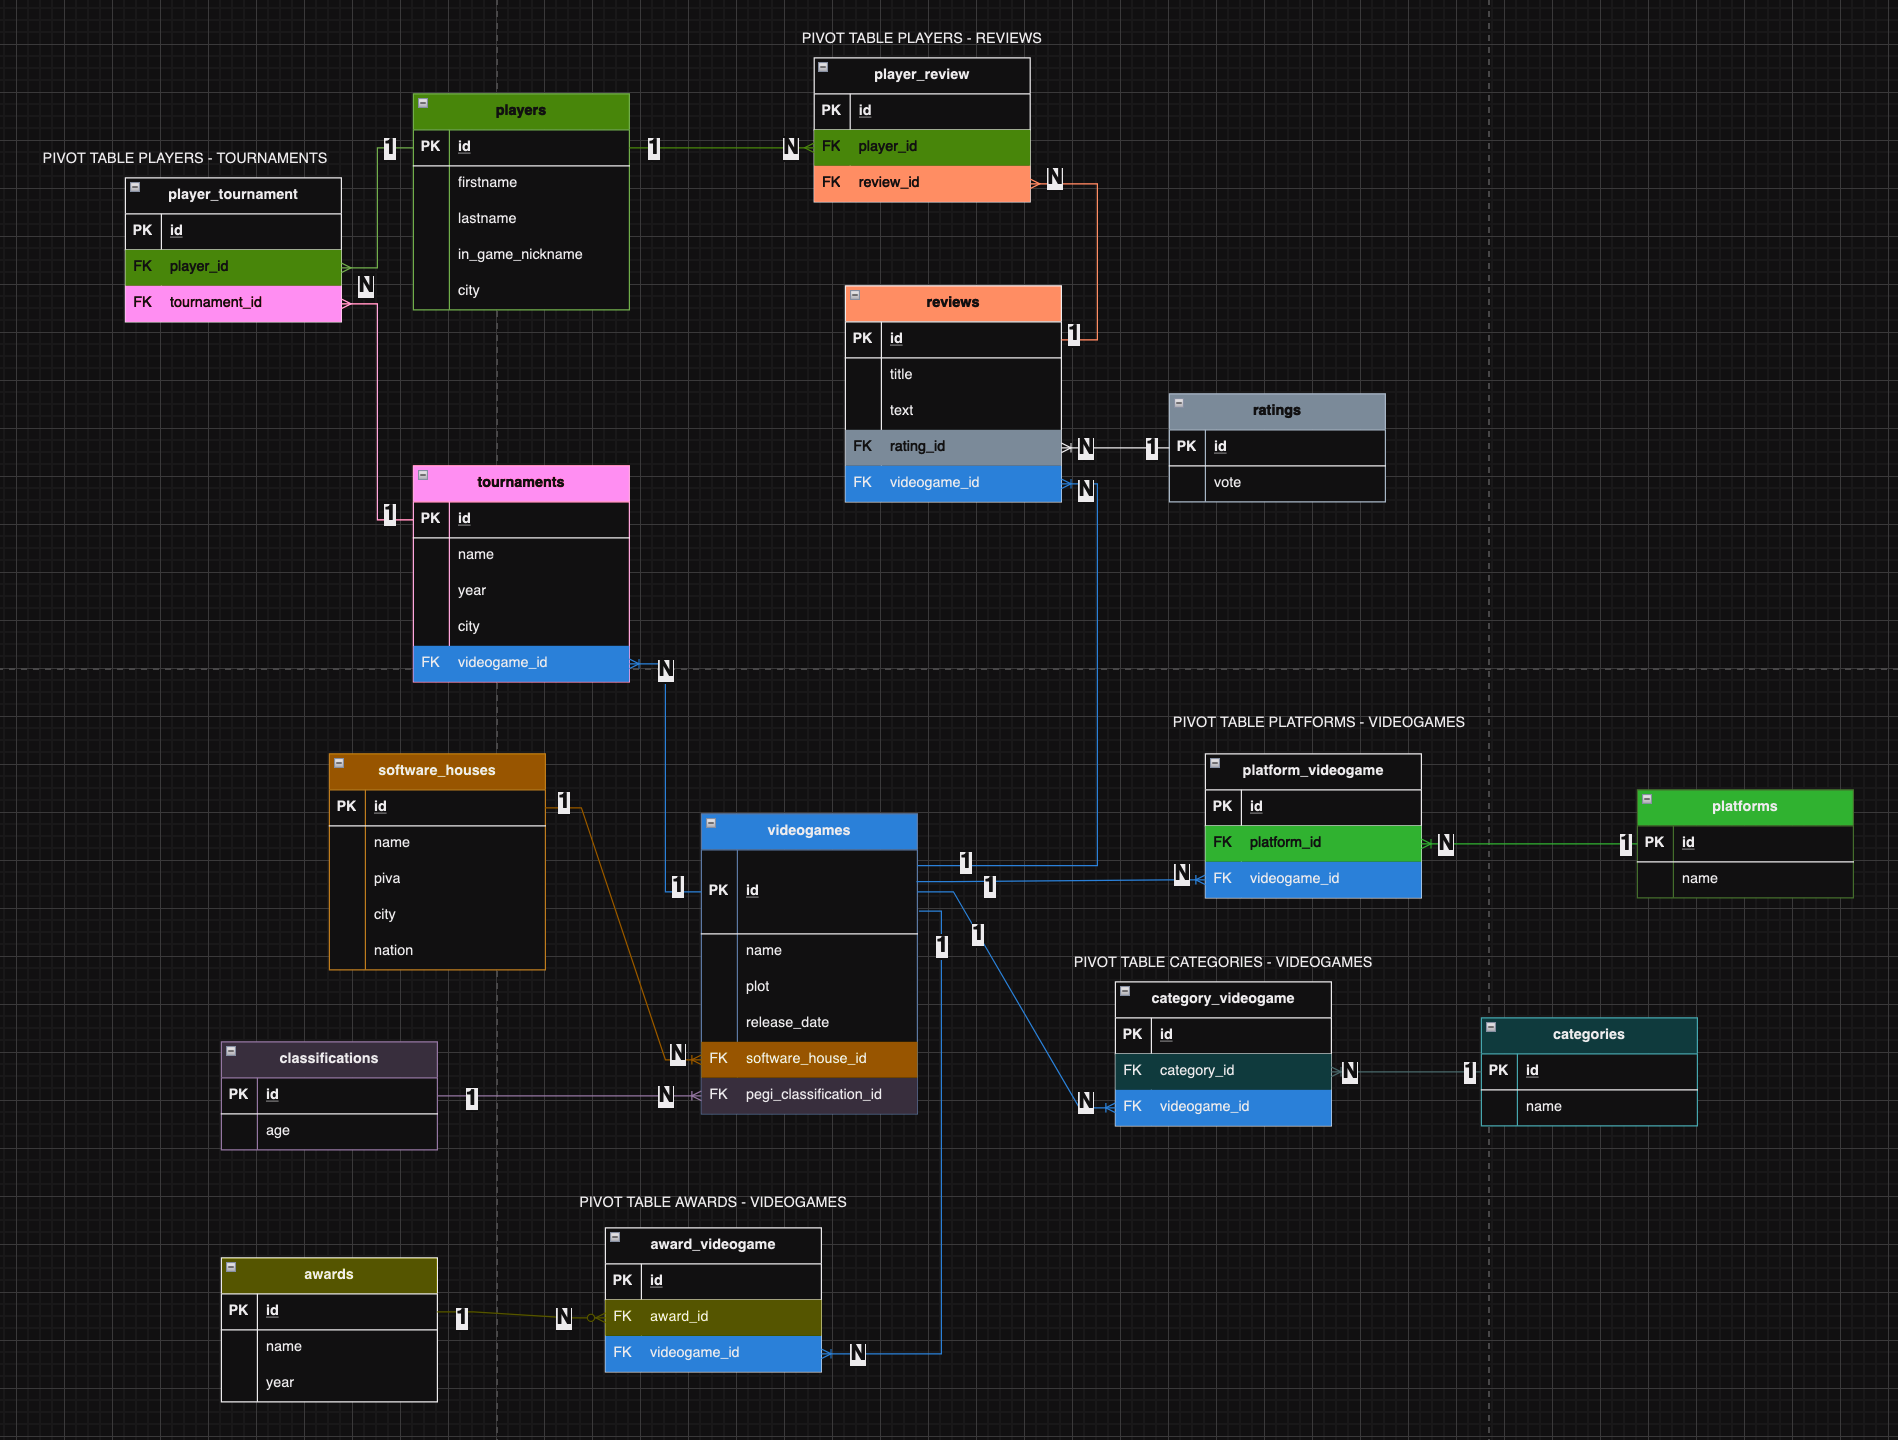
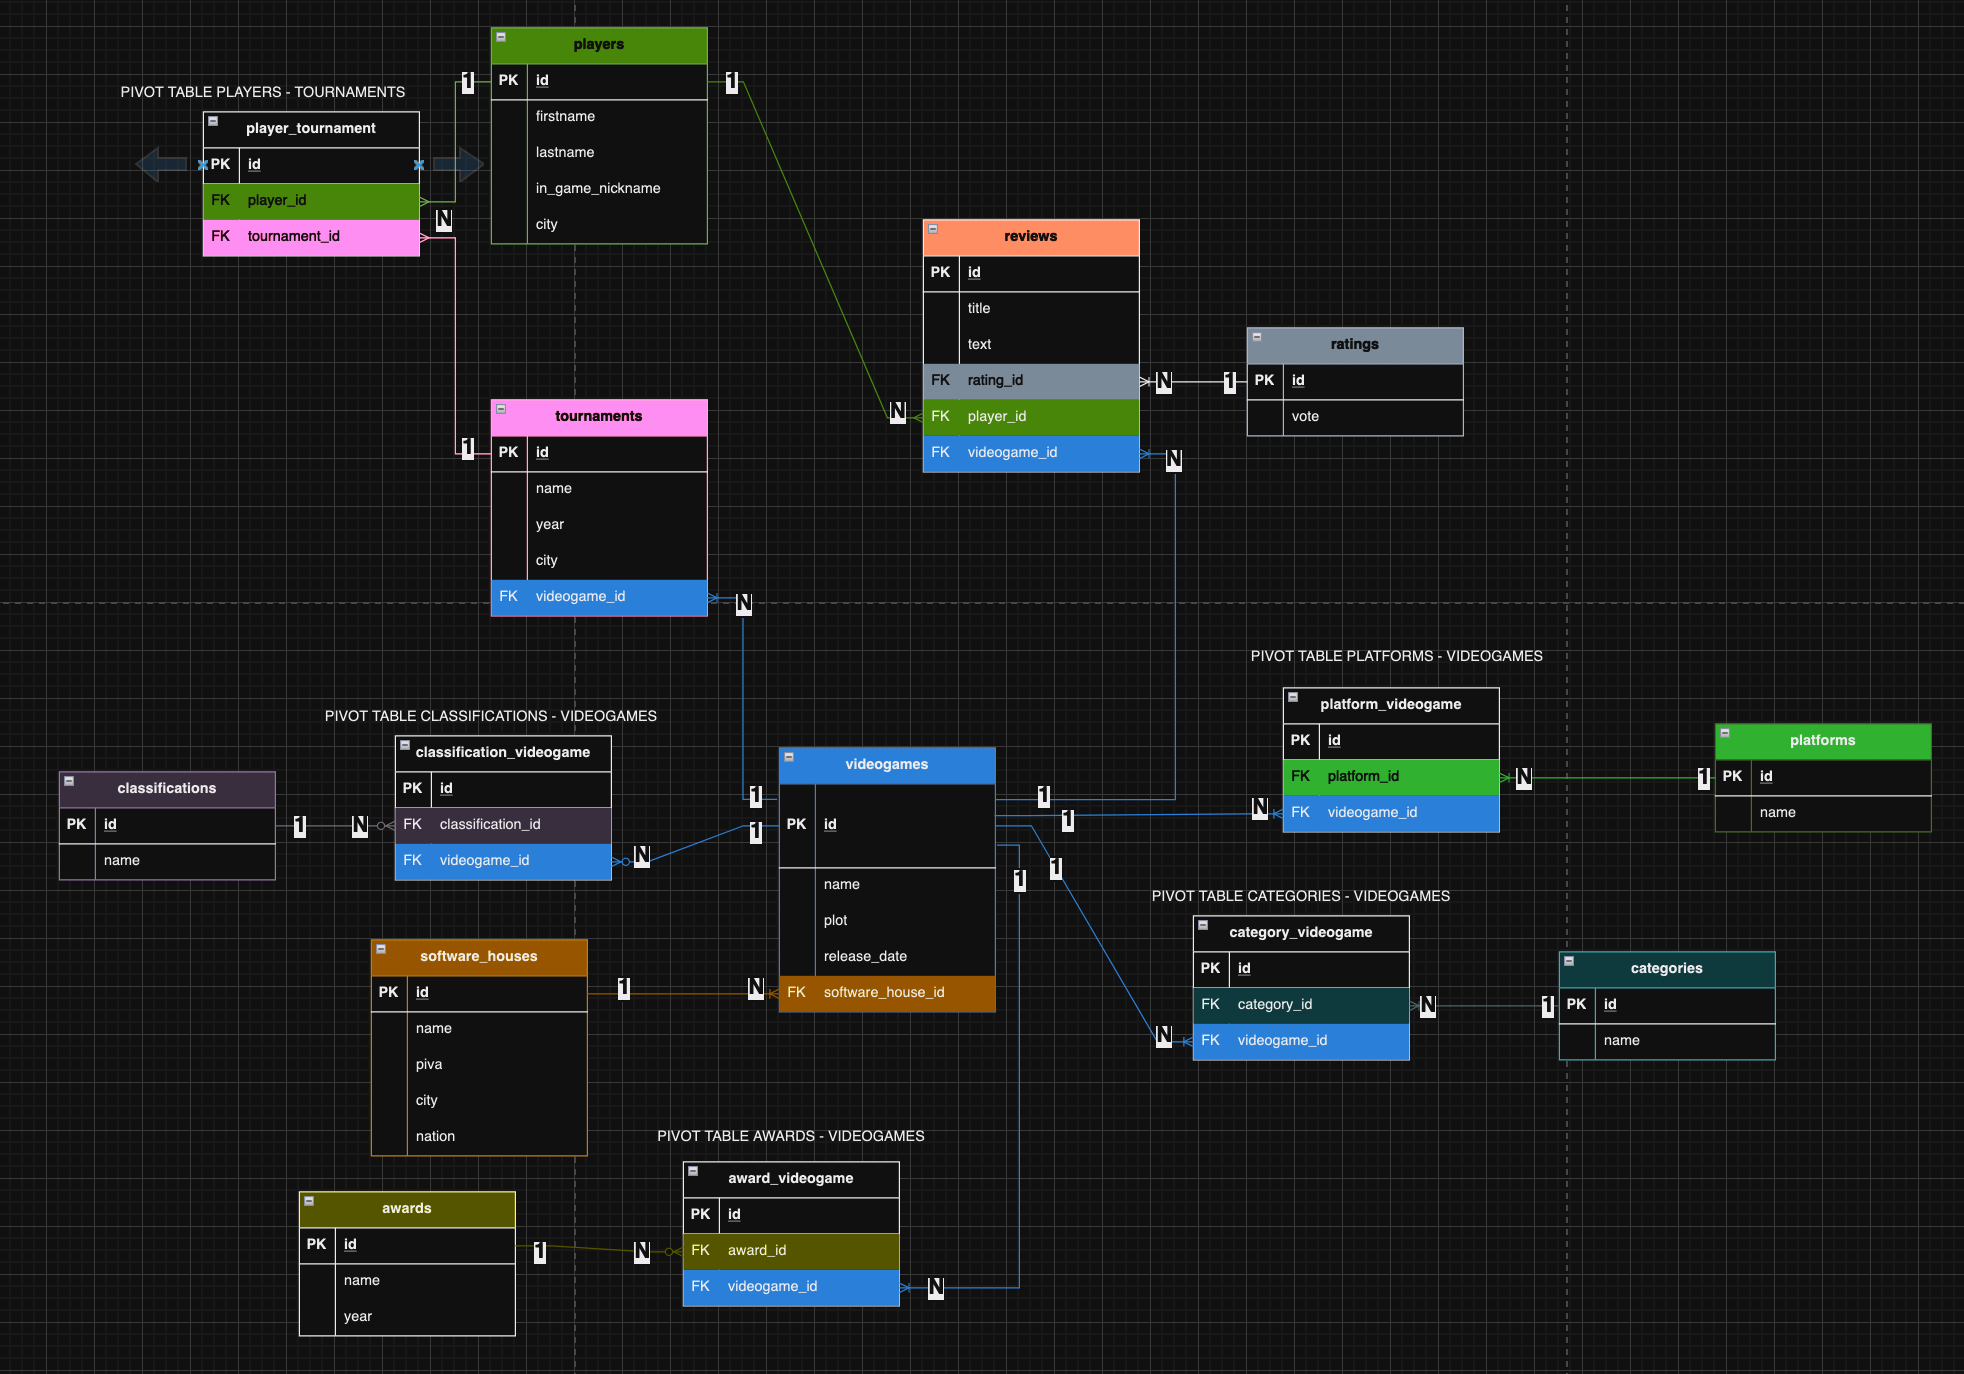
feat: relations explaination + fix db tables

diff --git a/README.md b/README.md
@@ -5,3 +5,35 @@ Periodicamente, vengono organizzati dei tornei a cui possono partecipare tutti i
 Ogni torneo è caratterizzato da un nome, l'anno e la città in cui si svolge. I giocatori, al momento dell'iscrizione, devono fornire nome, cognome, nickname di gioco, e città di provenienza.
 I videogames possono essere recensiti dai giocatori, i quali oltre al titolo e al testo, possono valutare i videogame con un rating da 1 a 5.
 Ogni anno vengono votati i migliori videogiochi, che possono così vincere diversi premi (gioco dell'anno, miglior narrativa, miglior colonna sonora, miglior gioco indipendente, gioco più atteso, ...)
+
+# SPIEGAZIONE RELAZIONI
+
+### Tabella Videogames - Software_Houses. One To Many
+- Una software house può produrre molteplici videogiochi, ma un videogame è sviluppato da una sola software house.
+
+### Tabella Videogames - Classifications (PEGI). One To Many
+- Una classificazione PEGI (ad esempio PEGI 18) può essere applicata a molteplici videogames, e un videogame può avere molteplici classificazioni (es: PEGI 18, VIOLENZA, PAURA).
+
+### Tabella Videogames - Platforms. Many To Many (pivot: platform_videogame)
+- Un videogame può essere presente su molteplici piattaforme (xbox, playstation, switch etc...) e una piattaforma può avere molti videogames disponibili su di essa.
+
+### Tabella Videogames - Category. Many To Many (pivot: category_videogame)
+- Un videogame può essere associato a molteplici categorie (azione, avventura, horror...) e una categoria specifica può essere presente su più videogames
+
+### Tabella Videogames - Awards. Many To Many (pivot: award_videogame)
+- Un videogame può vincere molteplici premi nel corso degli anni, un premio può essere assicuati a più videogames nel corso degli anni (es: GOTY nel 2022 gioco X nel 2023 gioco Y)
+
+### Tabella Videogames - Tournaments. One to Many
+- Un videogame può essere presente a più tornei, ma un torneo viene svolto su un singolo gioco alla volta.
+
+### Tabella Tournaments - Players. Many to Many (pivot: player_tournament)
+- In un torneo sono presenti molteplici giocatori, così come un giocatore può partecipare a più tornei
+  
+### Tabella Players - Reviews. One to Many
+- Un giocatore può scrivere più recensioni, ma una recensione è associata ad un singolo giocatore
+
+### Tabella Reviews - Ratings. One to Many
+- Un voto può essere associato a più recensioni, ma una recensione ha solo un voto per volta
+
+### Tabella Reviews - Videogames. One to Many
+- Una recensione può appartenere ad un singolo videogame alla volta, ma un videogame può ricevere molteplici recensioni
